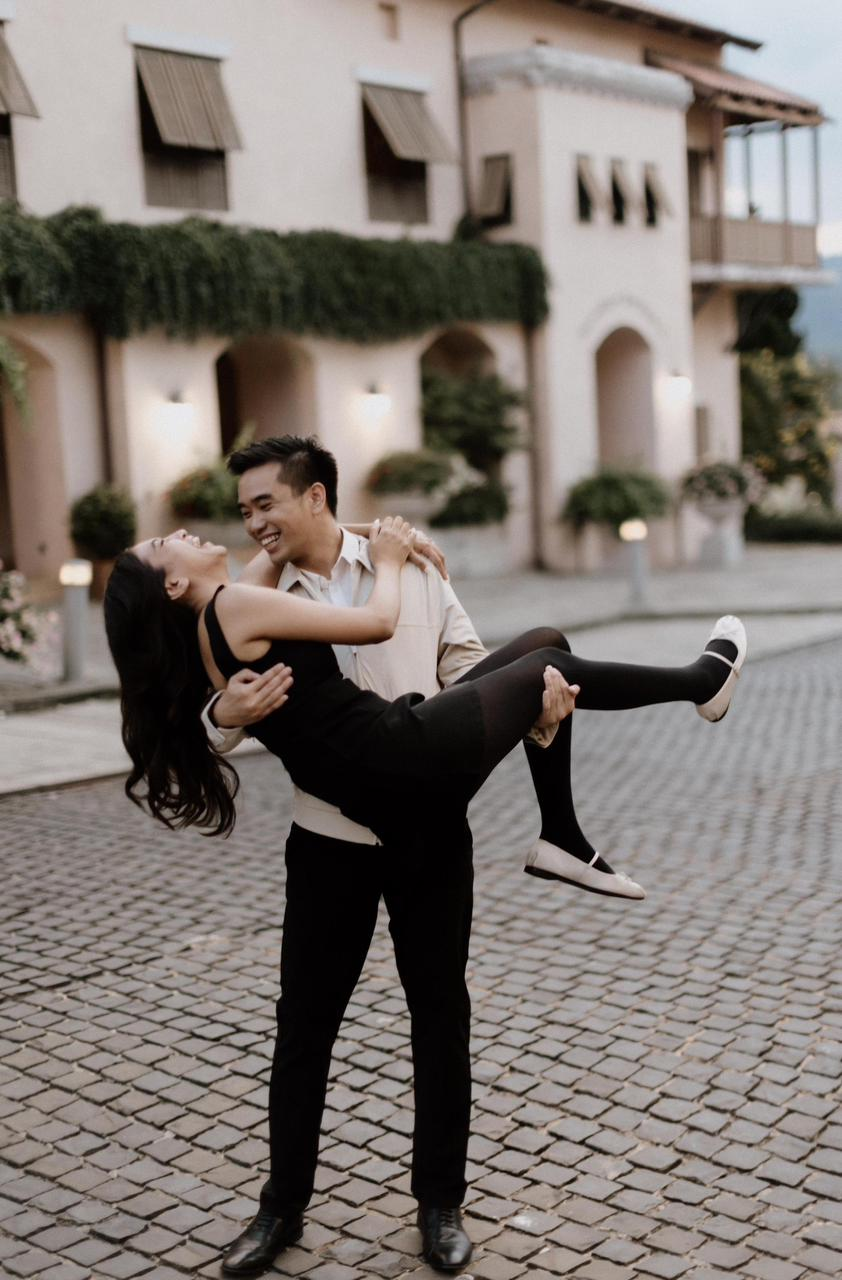
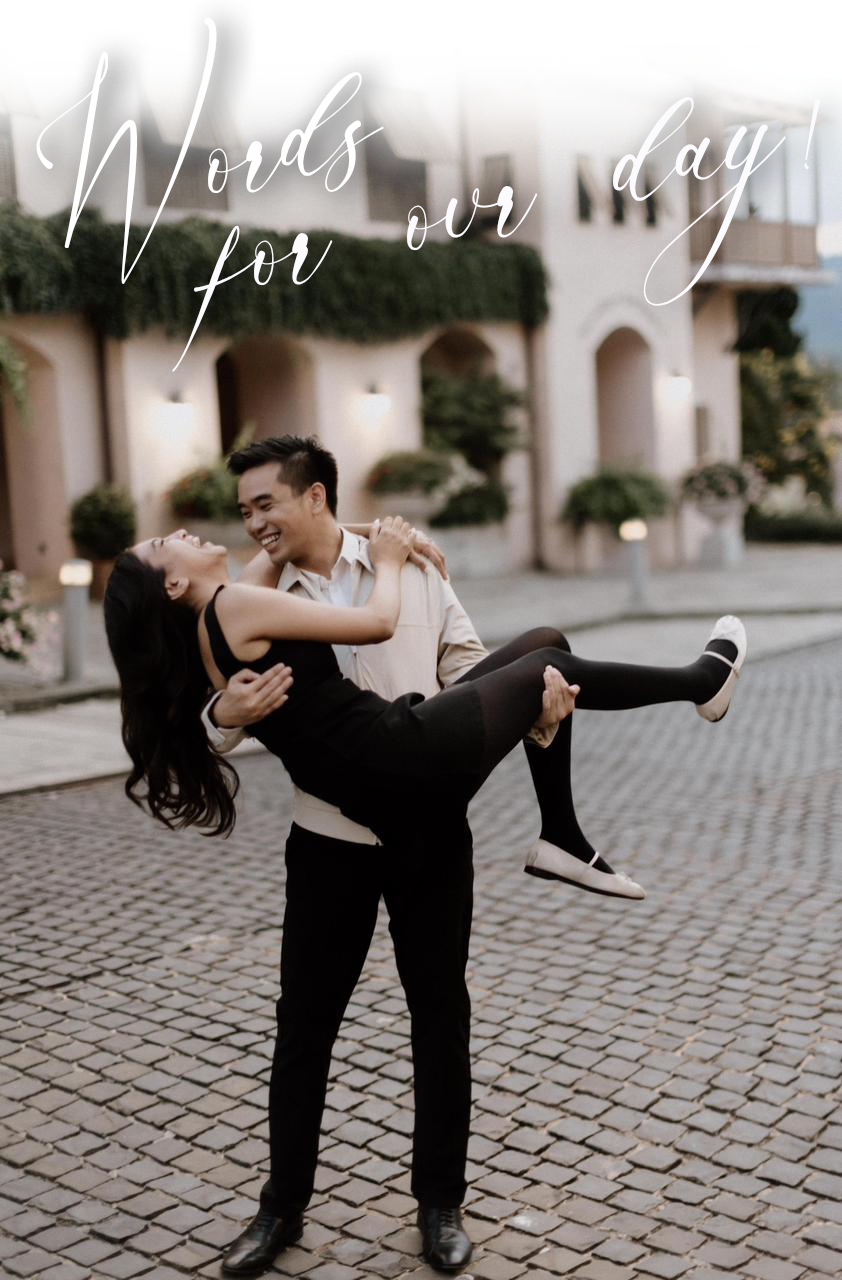
6/10(1)

Changed region(s): [[0.0, 0.0, 1.0, 0.2188], [0.2162, 0.1875, 0.3705, 0.2812]]

diff --git a/index.html b/index.html
@@ -970,9 +970,6 @@ document.addEventListener("DOMContentLoaded", () => {
                             <div class="col-md-8 col-lg-6 position-relative">
                                 <div class="card card-form">
                                     <div class="card-body">
-                                        <div class="title-section" data-anim="fade-down">
-                                            <h2>Words for Our Day</h2>
-                                        </div>
                                         <div class="image-element">
                                             <img src="./assets/images/background-3.png" alt="background-3" class="img-fluid">
                                         </div>
